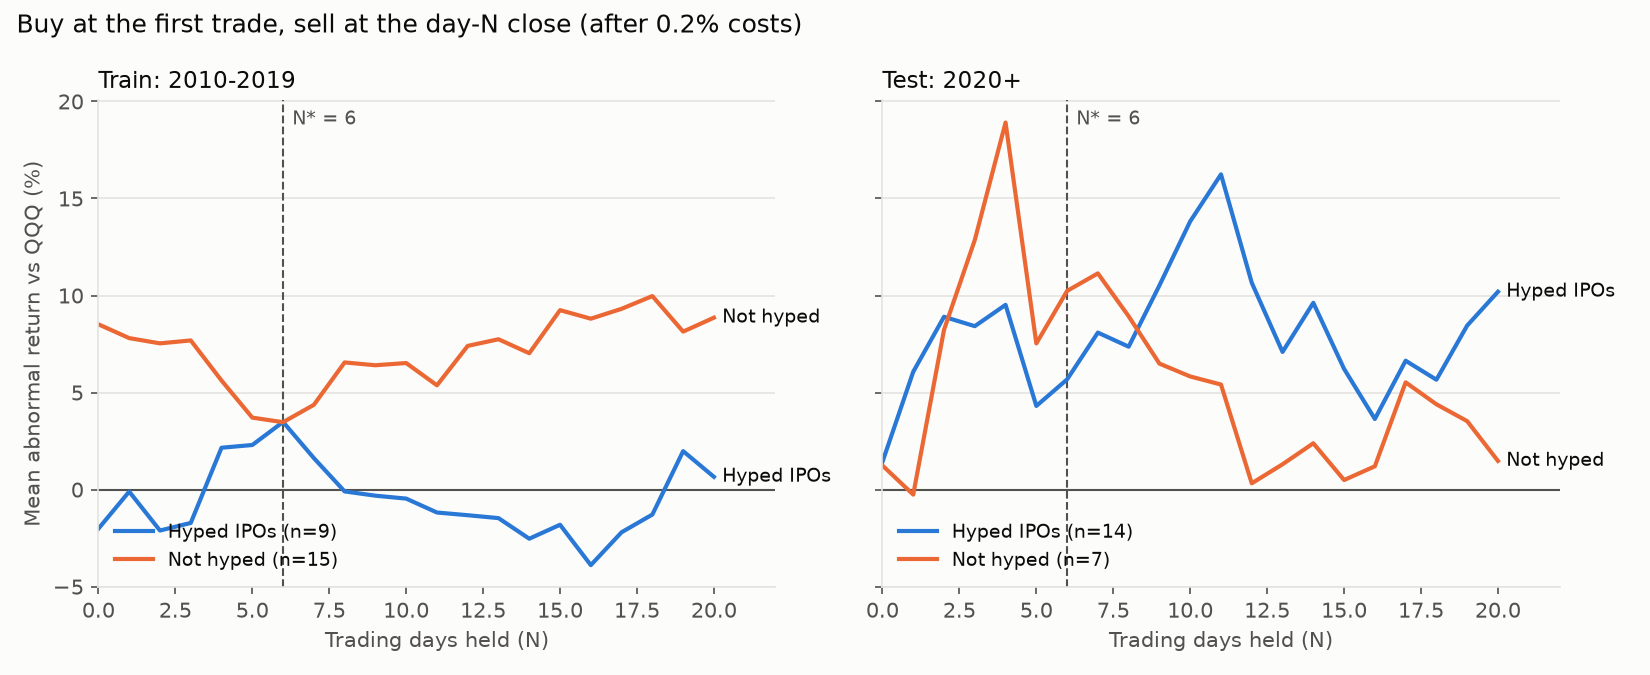
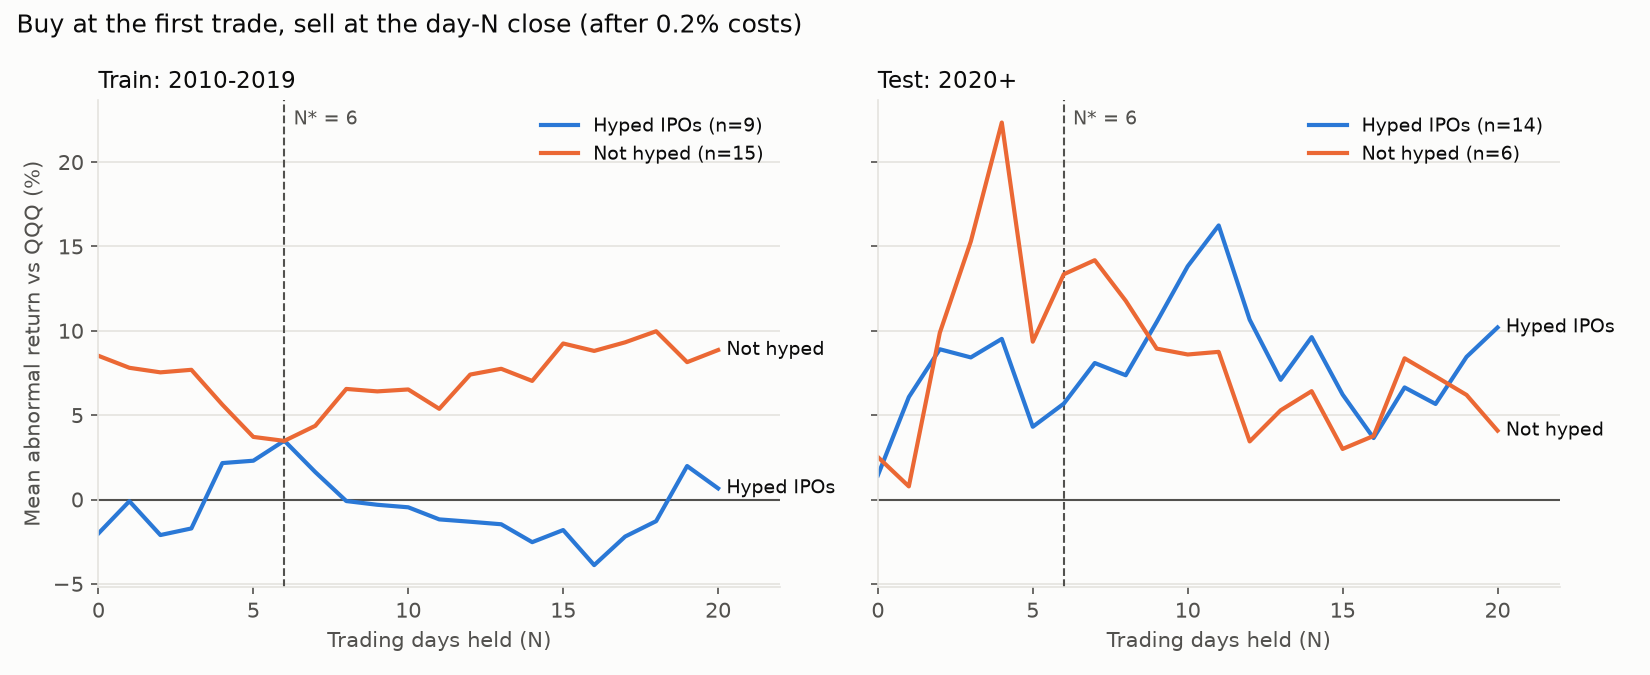
Add first study results (47 IPOs) and fix chart layout

diff --git a/run_study.py b/run_study.py
@@ -50,13 +50,14 @@ def plot_abnormal_curve(panel, n_star: int, benchmark_name: str, path: Path) -> 
         ax.set_title(title, color=TEXT, fontsize=11, loc="left")
         ax.set_xlabel("Trading days held (N)", color=MUTED)
         ax.set_xlim(0, 22)
+        ax.set_xticks(range(0, 21, 5))  # N is a whole number of days
         ax.grid(axis="y", color=GRID, linewidth=0.8)
         ax.tick_params(colors=MUTED)
         for side in ["top", "right"]:
             ax.spines[side].set_visible(False)
         for side in ["left", "bottom"]:
             ax.spines[side].set_color(GRID)
-        ax.legend(frameon=False, fontsize=9, labelcolor=TEXT, loc="lower left")
+        ax.legend(frameon=False, fontsize=9, labelcolor=TEXT, loc="upper right")
     axes[0].set_ylabel(f"Mean abnormal return vs {benchmark_name} (%)", color=MUTED)
     fig.suptitle("Buy at the first trade, sell at the day-N close (after 0.2% costs)",
                  color=TEXT, fontsize=12, x=0.01, ha="left")
